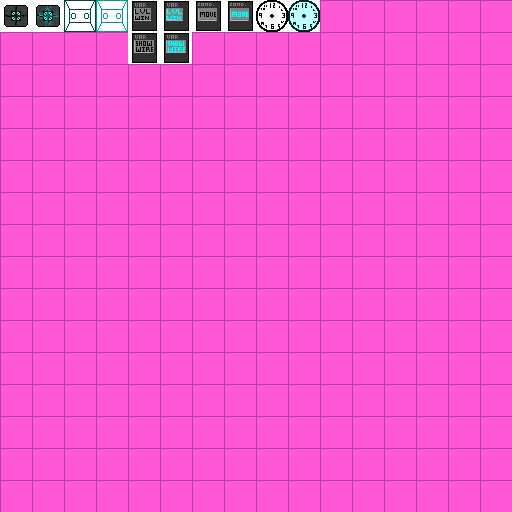
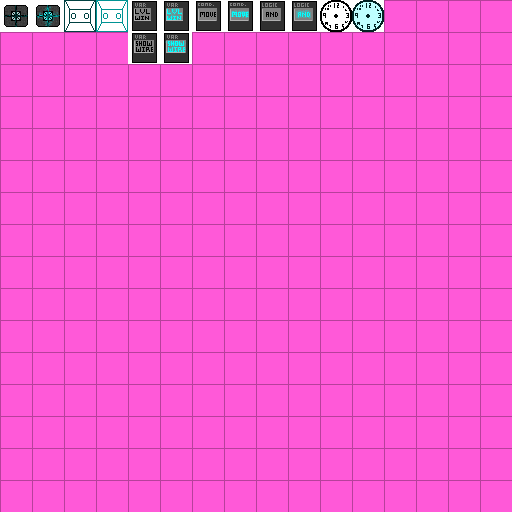
Added AND Gates

Changed region(s): [[0.5, 0.0, 0.75, 0.0625]]

diff --git a/game/triggers/TriggerAND.java b/game/triggers/TriggerAND.java
@@ -1,0 +1,62 @@
+package game.triggers;
+
+import game.Game;
+
+public class TriggerAND extends Trigger
+{
+
+	/**
+	 * 
+	 */
+	private static final long serialVersionUID = -1414607939944571480L;
+	private Trigger and1;
+	private Trigger and2;
+
+	public TriggerAND()
+	{
+		this.drawnInPlay = false;
+		this.sprite = 8;
+	}
+	
+	public TriggerAND(int x, int y, Game game)
+	{
+		super(x,y,8,game);
+		this.drawnInPlay = false;
+	}
+	
+	
+	@Override
+	public void onTriggerRelease(Trigger trigger)
+	{
+	}
+
+	@Override
+	public void onTrigger(Trigger trigger)
+	{
+		/*if(and1 == null && and2 == null) //In the case that this is the first time the trigger is running
+		{
+			trigger = and1;
+			return;
+		}
+		
+		if(and1 == trigger)//This is the same trigger again so we shouldn't bother
+			return;
+		else if(and2 == null)
+			and2 = trigger; //This is the second trigger
+		else if(trigger == and2)
+			trigger(); //Both things have been triggered so it is time to go
+			*/
+		
+			
+		if(and1 == null)
+			and1 = trigger;
+		else
+			and2 = trigger;
+		
+		if(and1 != null && and2 != null)
+			trigger();
+		
+
+	}
+
+}
